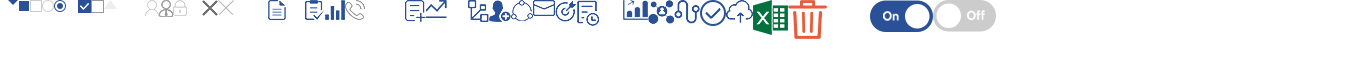
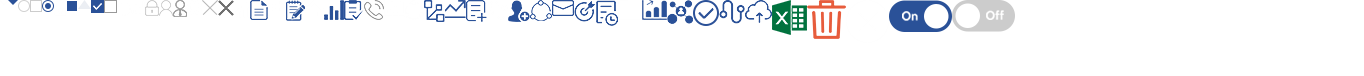
add the sub menu

Changed region(s): [[0.0, 0.0, 0.7494, 0.5263]]

diff --git a/src/components/Header/index.jsx b/src/components/Header/index.jsx
@@ -10,6 +10,17 @@ import header from './index.scss'
 class Header extends Component {
     constructor(props) {
         super(props)
+        this.handleEnter = this.handleEnter.bind(this)
+        this.handleLeave = this.handleLeave.bind(this)
+    }
+
+    handleEnter(e) {
+        console.log(this)
+
+    }
+
+    handleLeave() {
+        console.log(this)
     }
 
     render() {
@@ -22,11 +33,24 @@ class Header extends Component {
                 <div className={header.bottom}>
                     <div className={header.center}>
                         <ul className={header.nav}>
-                            <li><i className={header.iconindex+ ' ' + icon.icon}></i><Link to="/">首页</Link></li>
-                            <li><Link to="/login">线索</Link></li>
-                            <li><Link to="/about">KPI考核</Link></li>
+                            <li><Link to="/"><i className={header.iconindex+ ' ' + icon.icon}></i>首页</Link></li>
+                            <li><Link to="/login"><i className={header.iconlist+ ' '+icon.icon}></i>日跟进统计表</Link></li>
+                            <li><Link to="/about"><i className={header.kpi+' '+icon.icon}></i>KPI考核统计表</Link></li>
                         </ul>
-                        <ul className={header.sys}></ul>
+                        <ul className={header.sys}>
+                            <li><Link to="/logout"><i className={header.logout+' '+icon.icon}></i>退出</Link></li>
+                            <li><Link to="/logout"><i className={header.modifypwd+' '+icon.icon}></i>修改密码</Link></li>
+                            <li onMouseEnter={this.handleEnter} onMouseLeave={this.handleLeave}>
+                                <Link to="/logout"><i className={header.setting+' '+icon.icon}></i>系统设置<i className={header.select+' '+icon.icon}></i></Link>
+                                <div className={header.sub} style={{display: 'block'}}>
+                                    <Link to="/" className={header.item}>你好</Link>
+                                    <Link to="/" className={header.item}>你好</Link>
+                                    <Link to="/" className={header.item}>你好</Link>
+                                    <Link to="/" className={header.item}>你好</Link>
+                                    <Link to="/" className={header.item}>你好</Link>
+                                </div>
+                            </li>
+                        </ul>
                     </div>
                 </div>
             </div>

diff --git a/src/components/Header/index.scss b/src/components/Header/index.scss
@@ -18,6 +18,7 @@
         height: 66px;
         line-height: 66px;
         padding-right: 52px;
+        font-size: 14px;
     }
 }
 .bottom {
@@ -31,19 +32,28 @@
     }
     li {
         float: left;
+        font-size: 16px;
+        position: relative;
         a {
             display: inline-block;
             height: 52px;
             line-height: 52px;
             padding: 0 17px 0 10px;
+            &:hover {
+                background: #5981ca;
+            }
         }
+    }
+    a {
+        color: #fff;
+        text-decoration: none;
+    }
+    i {
+        margin: 0 9px;
     }
     .nav {
         float: left;
         width: 50%;
-        a {
-            color: #fff;
-        }
     }
     .sys {
         float: right;
@@ -56,7 +66,51 @@
 .iconindex {
     height: 18px;
     width: 19px;
-    background-position: -286px 0;
+    background-position: -305px 0;
     position: relative;
     top: -2px;
+}
+.iconlist {
+    height: 20px;
+    width: 21px;
+    background-position: -487px 0;
+}
+.kpi {
+    height: 16px;
+    width: 20px;
+    background-position: -384px 0;
+}
+.logout {
+    height: 15px;
+    width: 15px;
+    background-position: -187px 0;
+}
+.modifypwd{
+    height: 16px;
+    width: 12px;
+    background-position: -54px 0;
+}
+.setting{
+    height: 15px;
+    width: 15px;
+    background-position: -187px 0;
+}
+.select{
+    height: 5px;
+    width: 8px;
+    background-position: 0 0;
+}
+// 子菜单
+.sub{
+    display: none;
+    position: absolute;
+    width: 100%;
+    box-sizing: border-box;
+    .item {
+        display: block;
+        background: #2a5298;
+        border-top: 1px solid #375fa6;
+        border-bottom: 1px solid #204485;
+        text-align: center;
+    }
 }

diff --git a/src/containers/Login/index.scss b/src/containers/Login/index.scss
@@ -93,12 +93,12 @@
             .user {
                 height: 16px;
                 width: 14px;
-                background-position: -145px 0;
+                background-position: -159px 0;
             }
             .pwd {
                 height: 16px;
                 width: 14px;
-                background-position: -173px 0;
+                background-position: -145px 0;
             }
         }
         input {

diff --git a/src/App.js b/src/App.js
@@ -21,9 +21,10 @@ const mapDispatchToProps = (dispatch, ownProps) => ({
     actions: bindActionCreators({...actions}, dispatch)
 })
 
-class App extends withRouter {
+class App extends Component {
     constructor(props){
         super(props)
+        console.log(this.props, 123)
     }
     render() {
         return (
